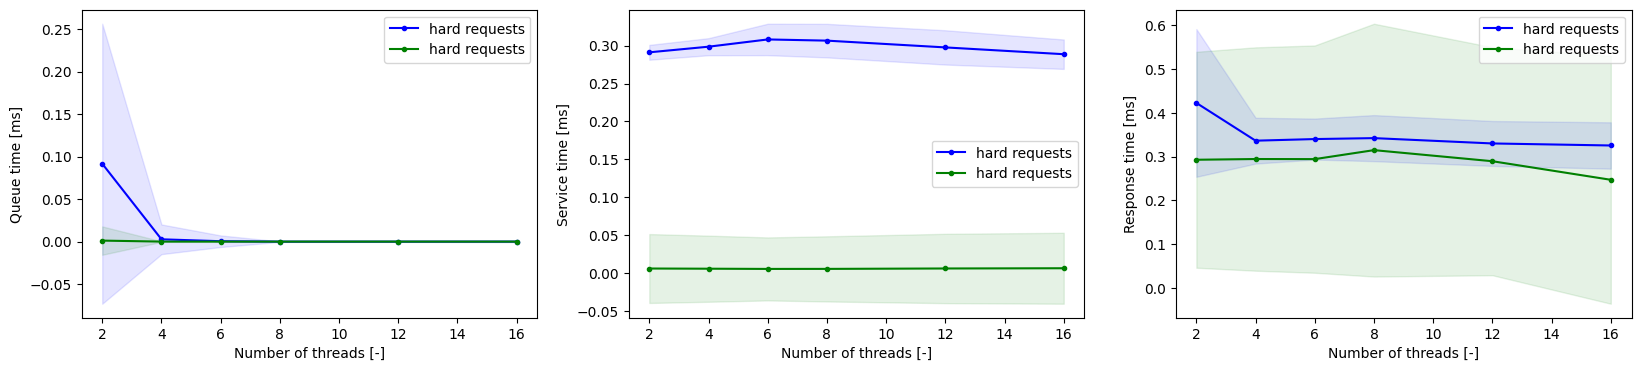
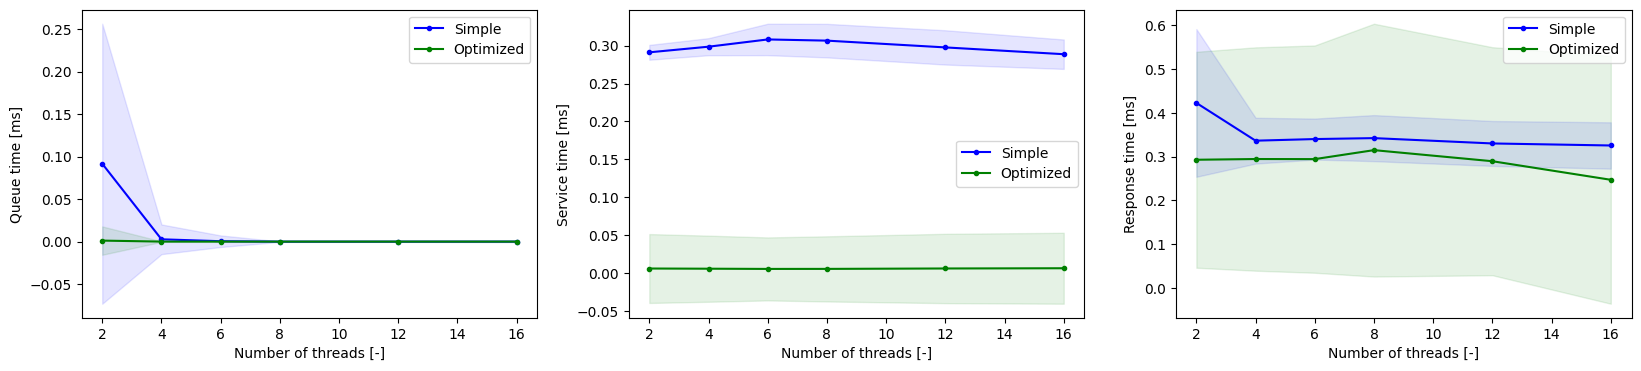
changed label in server comparison

diff --git a/measures/plots.py b/measures/plots.py
@@ -81,7 +81,7 @@ for plot, input_variables, fig_name in zip(plots_optimized, input_values_optimiz
                         std = np.append(std, np.std(lines))
                 # get argsort
                 idx = np.argsort(input_variables[:, 2])
-                plt.plot(input_variables[idx, 2], avg[idx], label=requests_type.replace('-', ' '), color=c, marker='.')
+                plt.plot(input_variables[idx, 2], avg[idx], label=name, color=c, marker='.')
                 plt.fill_between(input_variables[idx, 2], avg[idx]-std[idx], avg[idx]+std[idx], color=c, alpha=0.1)
                 plt.legend()
         plt.savefig(f"{plt_path}{fig_name}", bbox_inches='tight')
